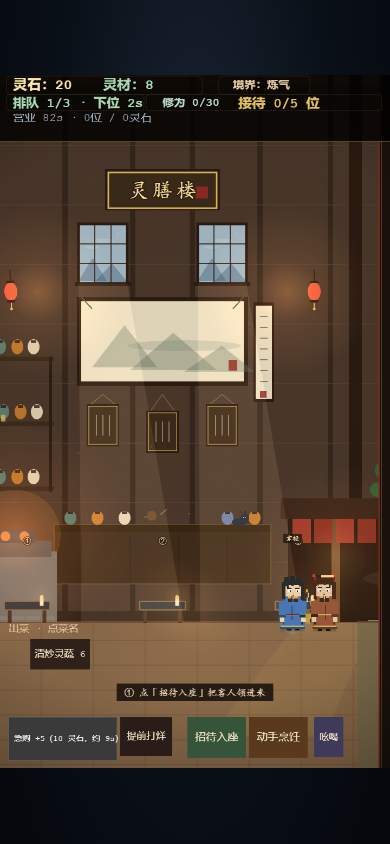
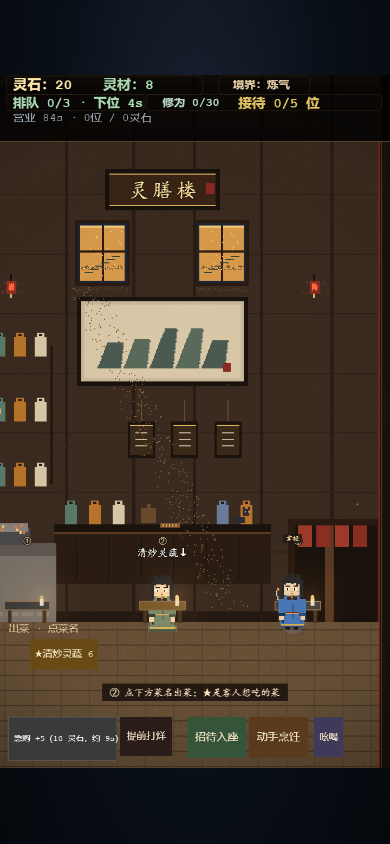
营业内景转像素底图，桌子与坐姿提到前景

diff --git a/src/main.ts b/src/main.ts
@@ -933,7 +933,7 @@ class Character extends Phaser.GameObjects.Container {
   setSeated(on: boolean) {
     if (this.seated === on || !this.scene || !this.visual?.active) return;
     this.seated = on;
-    this.setDepth(on ? 1.8 : 20);
+    this.setDepth(on ? 6.2 : 20);
     this.draw();
   }
 
@@ -943,7 +943,7 @@ class Character extends Phaser.GameObjects.Container {
     this.dining = on;
     if (on && !this.seated) {
       this.seated = true;
-      this.setDepth(1.8);
+      this.setDepth(6.2);
     }
     this.mood = on ? "dining" : "idle";
     this.draw();
@@ -1366,6 +1366,7 @@ class TavernScene extends Phaser.Scene {
     this.ensureDishTexture();
     this.ensureInkTitleTexture();
     this.ensureClosedInkTexture();
+    this.ensureInkInteriorTexture();
     this.booths = Array.from({ length: getBoothCount(this.level) }, () => this.makeBooth());
     if (this.selectedDishIds.size === 0) {
       this.selectedDishIds = new Set(DISHES.filter((d) => d.unlockLevel <= this.level).map((d) => d.id));
@@ -1811,6 +1812,154 @@ class TavernScene extends Phaser.Scene {
       px(cx + 2, cy + 1, 3, 1, "#0a1018");
       px(cx - 2, cy, 1, 1, "#0a1018");
       px(cx + 1, cy, 1, 1, "#0a1018");
+    }
+    tex.refresh();
+    tex.setFilter(Phaser.Textures.FilterMode.NEAREST);
+  }
+
+  /** 营业内景的像素底：墙、窗、挂画、后柜、灶台、门与地面。 */
+  private ensureInkInteriorTexture() {
+    if (this.textures.exists("ink-interior")) return;
+    const W = 395;
+    const H = 640;
+    const tex = this.textures.createCanvas("ink-interior", W, H);
+    if (!tex) return;
+    const c = tex.getContext();
+    const px = (x: number, y: number, w: number, h: number, col: string) => {
+      c.fillStyle = col;
+      c.fillRect(Math.round(x), Math.round(y), Math.round(w), Math.round(h));
+    };
+    const dab = (x: number, y: number, w: number, col: string) => {
+      for (let i = 0; i < w; i++) px(x + Math.random() * w, y + Math.random() * 3, 1, 1, col);
+    };
+    // 墙
+    px(0, 0, W, 505, "#3a2a20");
+    px(0, 0, W, 9, "#5a4330");
+    px(0, 496, W, 9, "#241a12");
+    for (let y = 55; y < 496; y += 55) px(0, y, W, 1, "#2e2118");
+    for (const x of [25, 90, 152, 208, 270, 335, 390]) px(x, 0, 3, 505, "#2a1c14");
+    // 墙面墨点
+    for (let i = 0; i < 900; i++) {
+      px(Math.random() * W, Math.random() * 500, 1, 1, Math.random() > 0.5 ? "#302218" : "#422f22");
+    }
+    // 山水挂画
+    px(101, 205, 158, 82, "#1a120c");
+    px(105, 209, 150, 74, "#c8b89a");
+    px(108, 212, 144, 68, "#d8c8a8");
+    for (let i = 0; i < 5; i++) {
+      const bx = 120 + i * 24;
+      const bh = 18 + Math.random() * 20;
+      for (let y = 0; y < bh; y++) px(bx + y * 0.4, 270 - y, 22 - y * 0.3, 1, i % 2 ? "#5a6a5a" : "#4a5a50");
+    }
+    px(236, 266, 7, 8, "#8a2a22");
+    // 匾额
+    px(127, 87, 106, 38, "#1a120c");
+    px(131, 91, 98, 30, "#3a2416");
+    px(131, 91, 98, 1, "#d9b45a");
+    px(131, 120, 98, 1, "#d9b45a");
+    px(220, 100, 8, 10, "#8a2a22");
+    // 窗
+    for (const wx of [102, 212]) {
+      px(wx - 3, 134, 51, 61, "#2a1a10");
+      px(wx, 137, 45, 55, "#1a2638");
+      px(wx + 2, 139, 41, 51, "#d99a4a");
+      px(wx + 2, 139, 41, 2, "#f4c878");
+      px(wx + 22, 139, 2, 51, "#2a1a10");
+      px(wx + 2, 162, 41, 2, "#2a1a10");
+      // 窗中山与云
+      for (let i = 0; i < 6; i++) px(wx + 6 + i * 5, 182 - i * 3, 8, 1, "#3a4a3a");
+      dab(wx + 2, 176, 40, "#5a4a32");
+      // 暖光
+      for (let i = 0; i < 18; i++) px(wx + 4 + Math.random() * 37, 142 + Math.random() * 44, 1, 1, "#ffd08a");
+      dab(wx - 2, 196, 48, "#5a3a24");
+    }
+    // 左侧货架酒坛
+    px(15, 250, 65, 8, "#3a2a1a");
+    px(15, 310, 65, 8, "#3a2a1a");
+    px(15, 370, 65, 8, "#3a2a1a");
+    px(17, 250, 3, 128, "#241810");
+    px(76, 250, 3, 128, "#241810");
+    for (const [row, y] of [232, 292, 352].entries()) {
+      for (let j = 0; j < 3; j++) {
+        const jx = 24 + j * 19;
+        const col = ["#5a7a6a", "#b8742a", "#d8c8a8"][j];
+        px(jx, y + 10, 11, 18, col);
+        px(jx + 2, y + 6, 7, 5, col);
+        px(jx + 4, y + 7, 3, 2, "#2a1a10");
+        if (row === 1 && j === 0) px(jx + 4, y + 16, 3, 5, "#d9b45a");
+      }
+    }
+    // 后柜
+    px(80, 415, 200, 7, "#1a120c");
+    px(80, 422, 200, 48, "#2a1c12");
+    px(80, 422, 200, 2, "#5a3a22");
+    for (let x = 100; x < 280; x += 30) px(x, 428, 1, 38, "#1a120c");
+    for (const [jx, col] of [
+      [90, "#5a7a6a"],
+      [112, "#b8742a"],
+      [134, "#d8c8a8"],
+      [230, "#6a7a9a"],
+      [252, "#b8742a"],
+    ] as const) {
+      px(jx, 397, 11, 18, col);
+      px(jx + 2, 393, 7, 5, col);
+      px(jx + 4, 394, 3, 2, "#2a1a10");
+    }
+    // 茶壶与算盘
+    px(160, 400, 14, 14, "#6a4a2a");
+    px(166, 396, 3, 6, "#6a4a2a");
+    px(178, 414, 18, 4, "#8a5a32");
+    for (let i = 0; i < 5; i++) px(180 + i * 3, 415, 1, 2, "#d9b45a");
+    // 小黑猫
+    px(246, 408, 10, 6, "#2a2a30");
+    px(254, 401, 6, 6, "#2a2a30");
+    px(254, 399, 2, 3, "#2a2a30");
+    px(259, 399, 2, 3, "#2a2a30");
+    px(256, 403, 1, 1, "#ffd98a");
+    px(259, 403, 1, 1, "#ffd98a");
+    // 挂着的木牌菜单
+    for (const bx of [160, 200, 240]) {
+      px(bx, 300, 1, 20, "#6a4a2a");
+      px(bx - 12, 320, 25, 34, "#1a120c");
+      px(bx - 10, 323, 21, 28, "#3a2818");
+      px(bx - 10, 323, 21, 1, "#d9b45a");
+      for (let i = 0; i < 3; i++) px(bx - 5, 330 + i * 6, 11, 1, "#c8b89a");
+    }
+    // 灶台
+    px(7, 440, 75, 65, "#7a7268");
+    px(7, 432, 75, 12, "#5f5850");
+    px(20, 418, 38, 16, "#4a4a4a");
+    px(22, 414, 34, 8, "#8a827a");
+    for (let i = 0; i < 8; i++) {
+      px(28 + Math.random() * 24, 414 + Math.random() * 8, 2, 2, i % 2 ? "#ff7a3a" : "#ffd06a");
+    }
+    for (let i = 0; i < 5; i++) px(8 + i * 14, 496, 11, 4, "#8a8276");
+    // 门口与红帘
+    px(296, 410, 88, 95, "#2a1a10");
+    px(302, 416, 76, 89, "#1a120c");
+    px(330, 416, 8, 89, "#5a3a22");
+    for (let i = 0; i < 4; i++) px(305 + i * 17, 416, 13, 20, i % 2 ? "#8b2f22" : "#a03a2a");
+    px(298, 505, 84, 6, "#4a3420");
+    dab(310, 505, 60, "#ffb060");
+    // 地面
+    px(0, 505, W, 135, "#6a5238");
+    for (let y = 512; y < 640; y += 14) px(0, y, W, 1, "#4a3826");
+    for (let x = 8; x < W; x += 26) px(x, 505, 1, 135, "#5a442e");
+    for (let i = 0; i < 700; i++) px(Math.random() * W, 505 + Math.random() * 135, 1, 1, "#57422c");
+    // 灯笼
+    for (const lx of [40, 320]) {
+      px(lx - 1, 184, 2, 6, "#1a120a");
+      px(lx - 4, 190, 9, 12, "#a02a20");
+      px(lx - 2, 192, 5, 7, "#ff6a3a");
+      px(lx - 1, 202, 2, 4, "#d9b45a");
+      dab(lx - 8, 190, 18, "#6a3a24");
+      dab(lx - 12, 198, 26, "#5a3424");
+    }
+    // 两束斜光，抖动像素
+    for (let i = 0; i < 380; i++) {
+      const y = 195 + Math.random() * 300;
+      const x = 108 + (y - 195) * 0.45 + (Math.random() - 0.5) * 34;
+      px(x, y, 1, 1, Math.random() > 0.5 ? "#7a5a3a" : "#8a6844");
     }
     tex.refresh();
     tex.setFilter(Phaser.Textures.FilterMode.NEAREST);
@@ -2874,7 +3023,7 @@ class TavernScene extends Phaser.Scene {
         fontFamily: XIAN_FONT,
       })
       .setOrigin(0.5)
-      .setDepth(2)
+      .setDepth(6.9)
       .setLetterSpacing(6);
     this.createSwayLantern(-280, 400);
     this.createSwayLantern(280, 400);
@@ -3628,6 +3777,11 @@ class TavernScene extends Phaser.Scene {
       .setScrollFactor(0)
       .setDepth(0.2)
       .setVisible(false);
+    this.add
+      .image(-360, 0, "ink-interior")
+      .setOrigin(0, 0)
+      .setDisplaySize(790, 1280)
+      .setDepth(6);
 
     // 顶部 HUD 悬浮条
     this.hudBar = this.add
@@ -3947,8 +4101,8 @@ class TavernScene extends Phaser.Scene {
   }
 
   private addBoothVisual(i: number) {
-    const bg = this.add.rectangle(0, 0, 80, 16, 0x6a4a2a).setDepth(2).setStrokeStyle(2, 0x8a6a4a);
-    const runner = this.add.rectangle(0, 0, 60, 6, 0x8a2a22).setDepth(2.5).setStrokeStyle(1, 0xd9b45a, 0.7);
+    const bg = this.add.rectangle(0, 0, 80, 16, 0x6a4a2a).setDepth(6.5).setStrokeStyle(2, 0x8a6a4a);
+    const runner = this.add.rectangle(0, 0, 60, 6, 0x8a2a22).setDepth(6.6).setStrokeStyle(1, 0xd9b45a, 0.7);
     const number = this.add
       .text(0, 0, "", {
         fontSize: "15px",
@@ -3958,10 +4112,10 @@ class TavernScene extends Phaser.Scene {
         fontFamily: XIAN_FONT,
       })
       .setOrigin(0.5)
-      .setDepth(3);
+      .setDepth(6.8);
     const legs = [
-      this.add.rectangle(0, 0, 7, 32, 0x4a3420).setDepth(1),
-      this.add.rectangle(0, 0, 7, 32, 0x4a3420).setDepth(1),
+      this.add.rectangle(0, 0, 7, 32, 0x4a3420).setDepth(6.4),
+      this.add.rectangle(0, 0, 7, 32, 0x4a3420).setDepth(6.4),
     ];
     const label = this.add
       .text(0, 0, "", {
@@ -3976,9 +4130,9 @@ class TavernScene extends Phaser.Scene {
         fontFamily: XIAN_FONT,
       })
       .setOrigin(0.5, 1)
-      .setDepth(3);
-    const barBg = this.add.rectangle(0, 0, 80, 8, 0x1a1a1a).setOrigin(0, 0.5).setDepth(3);
-    const barFill = this.add.rectangle(0, 0, 0, 8, COLOR_PLAYER).setOrigin(0, 0.5).setDepth(4);
+      .setDepth(6.8);
+    const barBg = this.add.rectangle(0, 0, 80, 8, 0x1a1a1a).setOrigin(0, 0.5).setDepth(6.9);
+    const barFill = this.add.rectangle(0, 0, 0, 8, COLOR_PLAYER).setOrigin(0, 0.5).setDepth(6.95);
     // 每桌一支小烛：给人物和桌面一点暖光，而不是只有顶灯
     const candleGlow = this.add
       .image(0, 0, "soft-glow")
@@ -3986,9 +4140,9 @@ class TavernScene extends Phaser.Scene {
       .setAlpha(0.16)
       .setScale(0.6)
       .setBlendMode(Phaser.BlendModes.ADD)
-      .setDepth(1.9);
-    const candleBody = this.add.rectangle(0, 0, 7, 13, 0xf0e2c8).setDepth(2.7);
-    const candleFlame = this.add.ellipse(0, 0, 7, 11, 0xffd98a).setDepth(2.8);
+      .setDepth(7);
+    const candleBody = this.add.rectangle(0, 0, 7, 13, 0xf0e2c8).setDepth(7.1);
+    const candleFlame = this.add.ellipse(0, 0, 7, 11, 0xffd98a).setDepth(7.2);
     this.tweens.add({
       targets: candleGlow,
       alpha: { from: 0.12, to: 0.2 },
@@ -4009,7 +4163,7 @@ class TavernScene extends Phaser.Scene {
       ease: "Sine.easeInOut",
     });
     // 整张桌子都是「看这位客人」的点击区，别让玩家去点米粒大的人
-    const zone = this.add.zone(0, 0, 80, 150).setOrigin(0.5, 0).setDepth(5);
+    const zone = this.add.zone(0, 0, 80, 150).setOrigin(0.5, 0).setDepth(7.3);
     let zx = 0;
     let zy = 0;
     zone

diff --git a/docs/playtest.md b/docs/playtest.md
@@ -34,7 +34,7 @@
 
 ### 美术方向：整体转水墨像素风（进行中）
 
-用户选择「整体转水墨像素风」，因此不再继续平滑矢量+局部插画的混合路线。标题页已换成 360×640 的像素底图（月晕、雾、三层山、两层屋檐、窗火、灯笼、松竹），2× 最近邻铺满 720×1280，中文题字仍用楷体；打烊页用同一套像素酒楼底图 + 朱砂/旧金事务卡，菜单目标卡/菜行/开张按钮改成墨底 + 朱砂。世界内人物已换 48×64 像素精灵（1.35 倍、最近邻），队列间距 34→84、桌子横向范围 350→500，给五官和站位留空间；特写卡仍用平滑矢量作为近景立绘。截图 `docs/screenshots/title-ink-pixel.png`、`closed-ink-pixel.png`、`menu-ink-pixel.png`、`open-ink-pixel.png`。规则写进 `docs/adr/0008-ink-pixel-art-direction.md`。
+用户选择「整体转水墨像素风」，因此不再继续平滑矢量+局部插画的混合路线。标题页已换成 360×640 的像素底图（月晕、雾、三层山、两层屋檐、窗火、灯笼、松竹），2× 最近邻铺满 720×1280，中文题字仍用楷体；打烊页用同一套像素酒楼底图 + 朱砂/旧金事务卡，菜单目标卡/菜行/开张按钮改成墨底 + 朱砂。世界内人物已换 48×64 像素精灵（1.35 倍、最近邻），队列间距 34→84、桌子横向范围 350→500；营业内景换成 395×640 像素底图（墙、窗、挂画、后柜、灶台、门、地面、灯笼、猫与斜光），桌子和坐姿人物提到背景之上，避免被盖住。特写卡仍用平滑矢量作为近景立绘；结算/账簿/次级页仍平滑。截图 `docs/screenshots/title-ink-pixel.png`、`closed-ink-pixel.png`、`menu-ink-pixel.png`、`open-ink-pixel.png`、`interior-ink-pixel.png`。规则写进 `docs/adr/0008-ink-pixel-art-direction.md`。
 
 人物不能只换贴图：40×56 精灵在 390 屏上要么太小成色块，要么放大到五官可读就挤占 52px 队列间距和 4 桌布局；试过单独替换后已回退。后续顺序是打烊页/菜单框 → 人物与队列/桌距 → 店内外景 → 结算/账簿，四屏统一前不宣称方向完成。
 

diff --git a/docs/adr/0008-ink-pixel-art-direction.md b/docs/adr/0008-ink-pixel-art-direction.md
@@ -5,7 +5,7 @@
 - **像素底图 + 楷体题字**：场景、人物、图标用低分辨率像素网格绘制，再用最近邻放大；中文标题与按钮文字保留楷体，保证手机可读。
 - **水墨限定色**：墨黑、靛青、暖纸、朱砂、旧金五色为主，不用高饱和青色/紫色；光用抖动像素与暖色点阵表现，不用大面积平滑渐变。
 - **先定标题，再逐屏替换**：标题页已换成 360×640 的像素底（月、雾、山、两层屋檐、窗火、灯笼、松竹），再用 2× 最近邻铺满画布；打烊页换成同一套像素酒楼底图与朱砂/旧金事务卡，菜单的目标卡/菜行/开张按钮改成墨底 + 朱砂。后续顺序是人物与队列间距、店内背景、结算/账簿。
-- **人物需要重新排版**：48×64 像素精灵在 390 屏上以 1.35 倍显示；队列间距 34→84、桌子横向范围 350→500，给人物和 4–7 桌留位置。特写卡暂留平滑矢量，作为近景立绘；营业内景背景仍平滑，是下一屏要转的部分。单独换人物会和背景割裂，但先解决“人看不见/无五官”的问题，再逐屏替换背景。
+- **人物需要重新排版**：48×64 像素精灵在 390 屏上以 1.35 倍显示；队列间距 34→84、桌子横向范围 350→500，给人物和 4–7 桌留位置。营业内景已换成 395×640 的像素底图（墙、窗、挂画、后柜、灶台、门、地面、灯笼、猫与斜光），以世界坐标铺在深度 6；桌子/坐姿人物/烛光整体提到 6.2–7.3，避免被背景盖住。特写卡暂留平滑矢量，作为近景立绘；结算与次级页面仍平滑，是下一批。
 - **文字不进像素网格**：中文像素字库缺失，强行像素化会牺牲可读性；字体继续用楷体，框体、图标、底图走像素。
 
 代价：平滑的柔光、纸纹、渐变灯笼需要逐屏替换成抖动/点阵；过渡期会有一段时间的风格混搭。至少在标题、打烊页、菜单、营业内景四屏统一之前，不宣称美术方向完成。

diff --git a/README.md b/README.md
@@ -39,7 +39,7 @@ npm run build   # 生产构建
 - 菜单走量 vs 高客单：高价菜每秒收益更低，靠口味/稀客加成
 - 八重境界、飞升与仙缘；只有亲自下厨得修为
 - 随机事件（整体期望为正，每局至多 2 次）与见闻录
-- **正在转向水墨像素风**（见 `docs/adr/0008-ink-pixel-art-direction.md`）：场景/图标用像素网格与限定色，中文题字保留楷体。标题页、打烊页与菜单框已换成像素底图/墨底朱砂卡片（月、雾、山、两层屋檐、窗火、灯笼、松竹）；世界内人物已是 48×64 像素精灵，队列与桌距同步放宽；营业内景背景和次级页面逐屏替换中。
+- **正在转向水墨像素风**（见 `docs/adr/0008-ink-pixel-art-direction.md`）：场景/图标用像素网格与限定色，中文题字保留楷体。标题页、打烊页、菜单框、营业内景与人物已换成像素画面：像素底图（月/雾/山/屋檐/窗/挂画/后柜/灶台/门/地面/灯笼/猫）、48×64 像素人物，队列与桌距同步放宽；中文题字与 HUD 保留平滑字体，特写卡作为近景立绘暂留平滑矢量，次级页面逐屏替换中。
 - 程序合成画面：新档进店的 4 秒旁白与灯笼开场（可跳过）、店内灯笼与每桌小烛明暗呼吸、窗光斜落地面、营业中升起的金色尘埃、三层远山、窗棂、山水挂画与酒坛；每日开场题头与晴/灵雾/落英粒子
 - 小人会呼吸、眨眼、带身份道具（剑/葫芦/长须/草帽/犄角/托盘/酒旗），袍面有受光/暗面、滚边与袖口，排队时微愁、用膳时沉到桌后（桌沿挡住腰腿、碗/手/筷子在桌沿）张嘴笑并带腮红、稀客冷脸；入座和用膳有碗筷热气，下厨有灵气微光，等菜时会说话；**点人物或桌卡会拉出金框人物卡**，卡上有 4.2× 肖像、姓名和情境台词
 - 每日开张有「第 X 日 + 晴/灵雾/落英」题头与天气粒子
